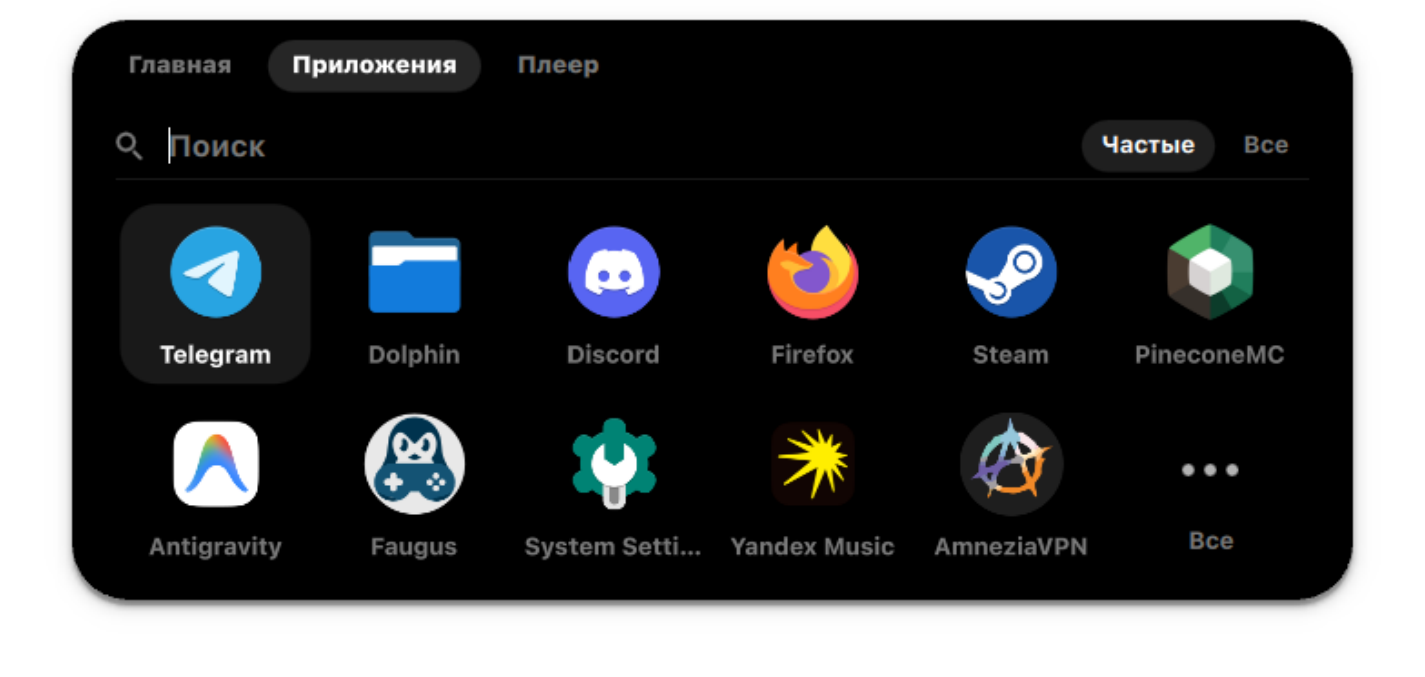
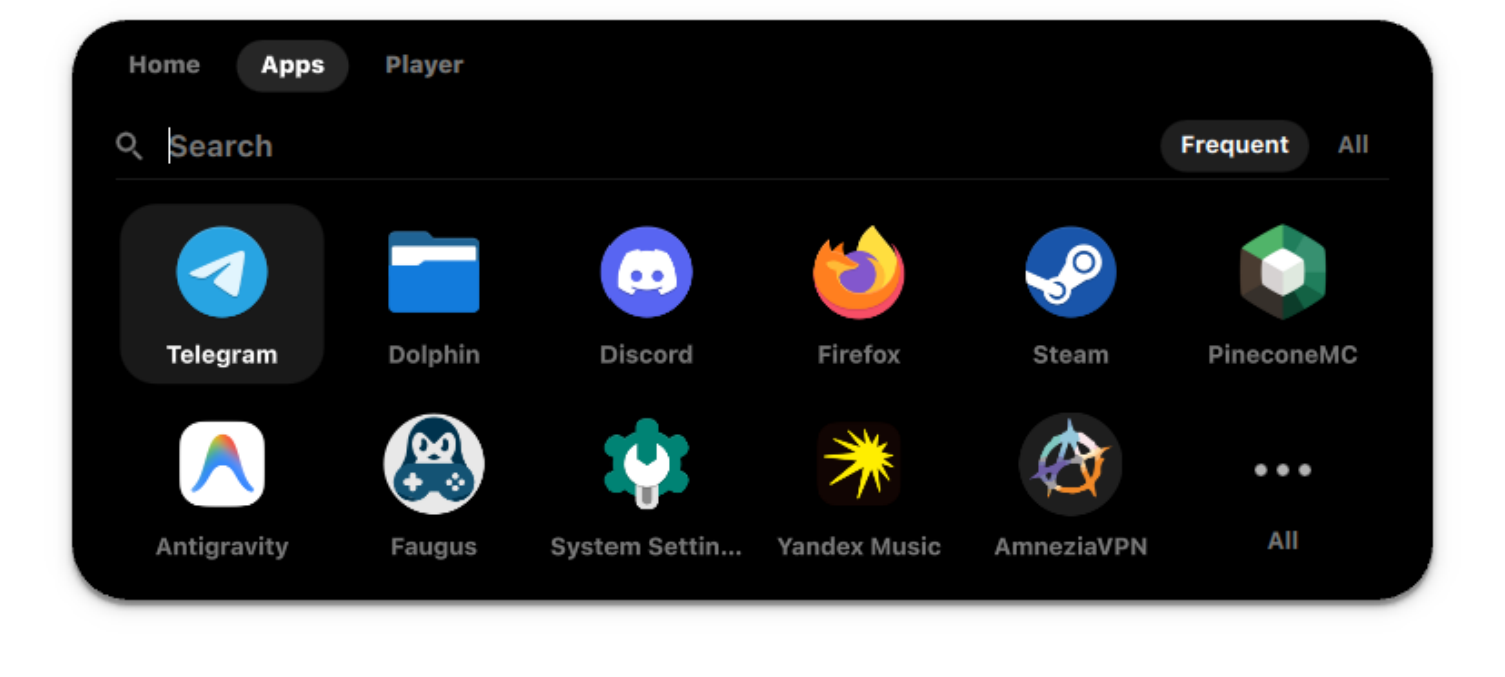
Новые скриншоты на английском, описание без сравнения с iPhone

diff --git a/README.md b/README.md
@@ -1,6 +1,6 @@
 # Dynamic Island для KDE Plasma
 
-Живой «остров» в стиле iPhone вверху экрана для **KDE Plasma 6 на Wayland**, написанный на [Quickshell](https://quickshell.org).
+Живой «остров» вверху экрана для **KDE Plasma 6 на Wayland**, написанный на [Quickshell](https://quickshell.org).
 Он может полностью заменить верхнюю панель: часы, плеер, трей, громкость, раскладка, Wi‑Fi, уведомления и лаунчер приложений — всё в одной чёрной капле с жидкими анимациями и глазками, которые следят за курсором.
 
 <p align="center">
